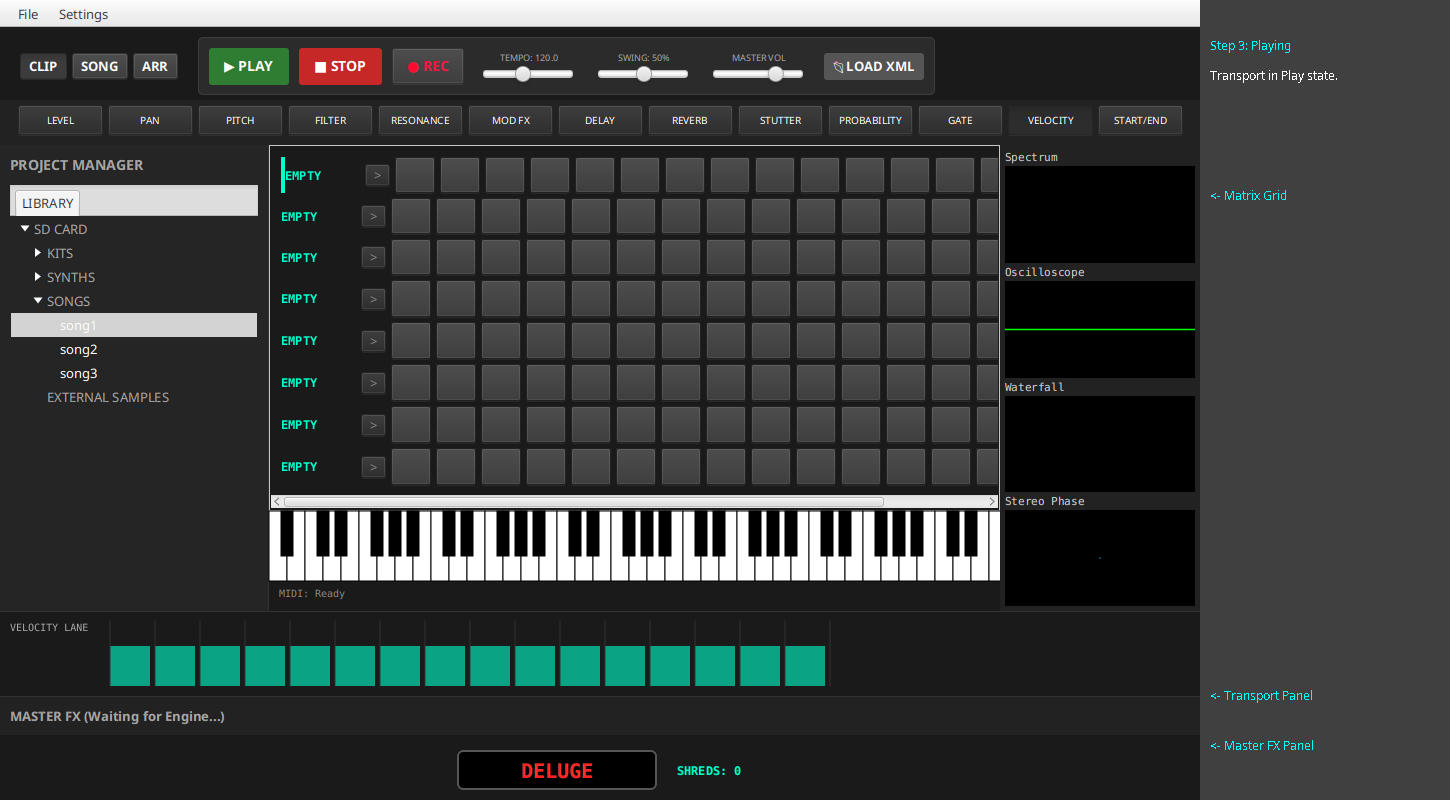
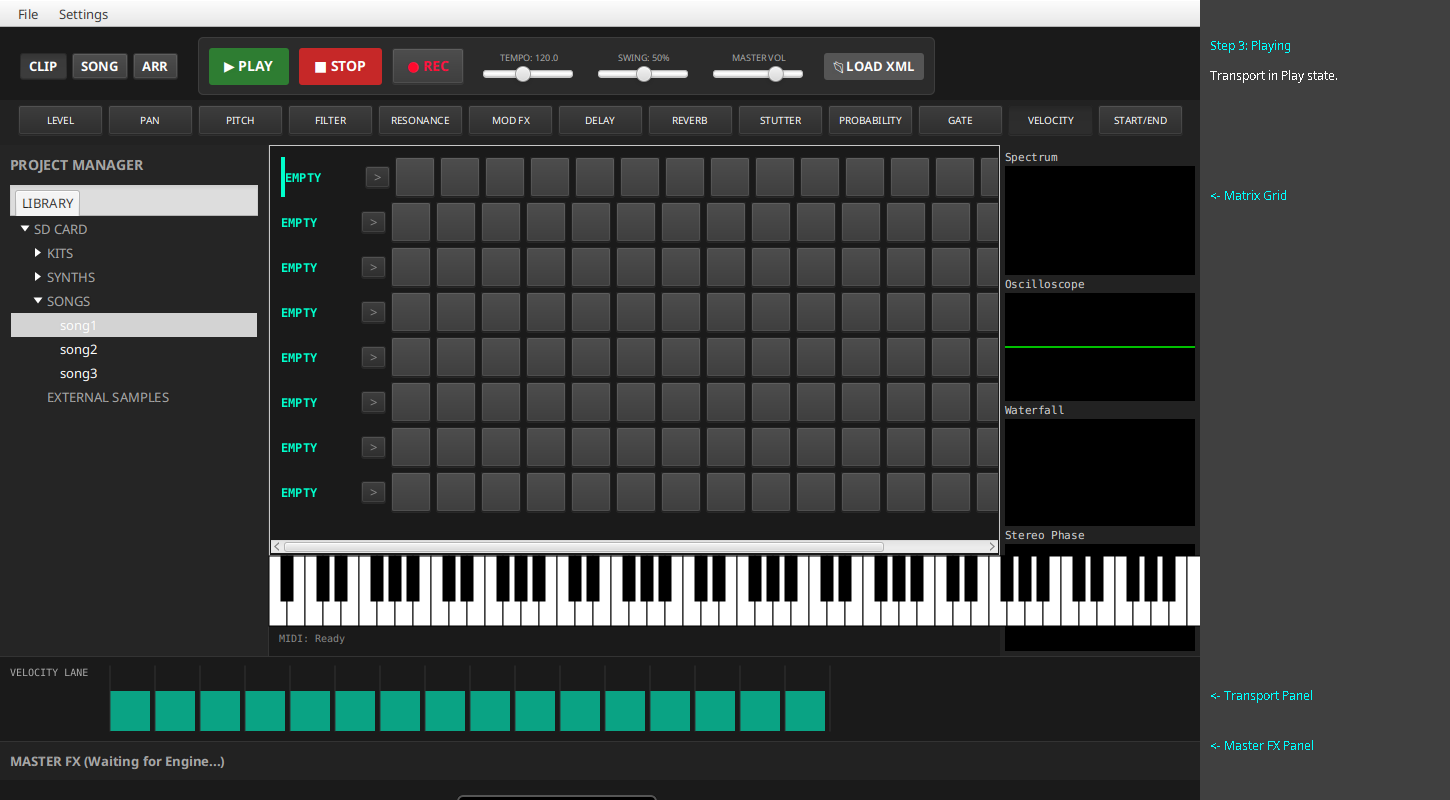
Add Song and Clip view screenshots to visual walkthrough.

Changed region(s): [[0.0, 0.2188, 0.8379, 1.0], [0.1862, 0.25, 0.2172, 0.2812]]

diff --git a/deluge/src/test/java/org/chuck/deluge/ui/ScreenshotGenerator.java b/deluge/src/test/java/org/chuck/deluge/ui/ScreenshotGenerator.java
@@ -91,8 +91,15 @@ public class ScreenshotGenerator {
       mainPanel.getSongPanel().refresh();
     });
     
+    // Switch to SONG view and take snapshot
+    mainPanel.setView(DelugeMainPanel.ViewMode.SONG);
     runAndWait(() -> currentSnapshot = scene.snapshot(null));
-    saveSnapshot(currentSnapshot, "../docs/step1_loaded.png", "Step 1: Song Loaded", "Grid populated from song1.xml.");
+    saveSnapshot(currentSnapshot, "../docs/step1_loaded_songview.png", "Step 1: Song View", "Song view showing active clips.");
+    
+    // Switch to CLIP view and take snapshot
+    mainPanel.setView(DelugeMainPanel.ViewMode.CLIP);
+    runAndWait(() -> currentSnapshot = scene.snapshot(null));
+    saveSnapshot(currentSnapshot, "../docs/step1_loaded_clipview.png", "Step 1: Clip View", "Clip view showing sequence.");
     
     // Step 2: Edit Cells
     runAndWait(() -> {

diff --git a/deluge/src/main/java/org/chuck/deluge/ui/DelugeMainPanel.java b/deluge/src/main/java/org/chuck/deluge/ui/DelugeMainPanel.java
@@ -556,4 +556,8 @@ public class DelugeMainPanel extends BorderPane {
   public ProjectSidebarPanel getSidebarPanel() {
     return sidebarPanel;
   }
+
+  public void setView(ViewMode mode) {
+    javafx.application.Platform.runLater(() -> switchView(mode));
+  }
 }
